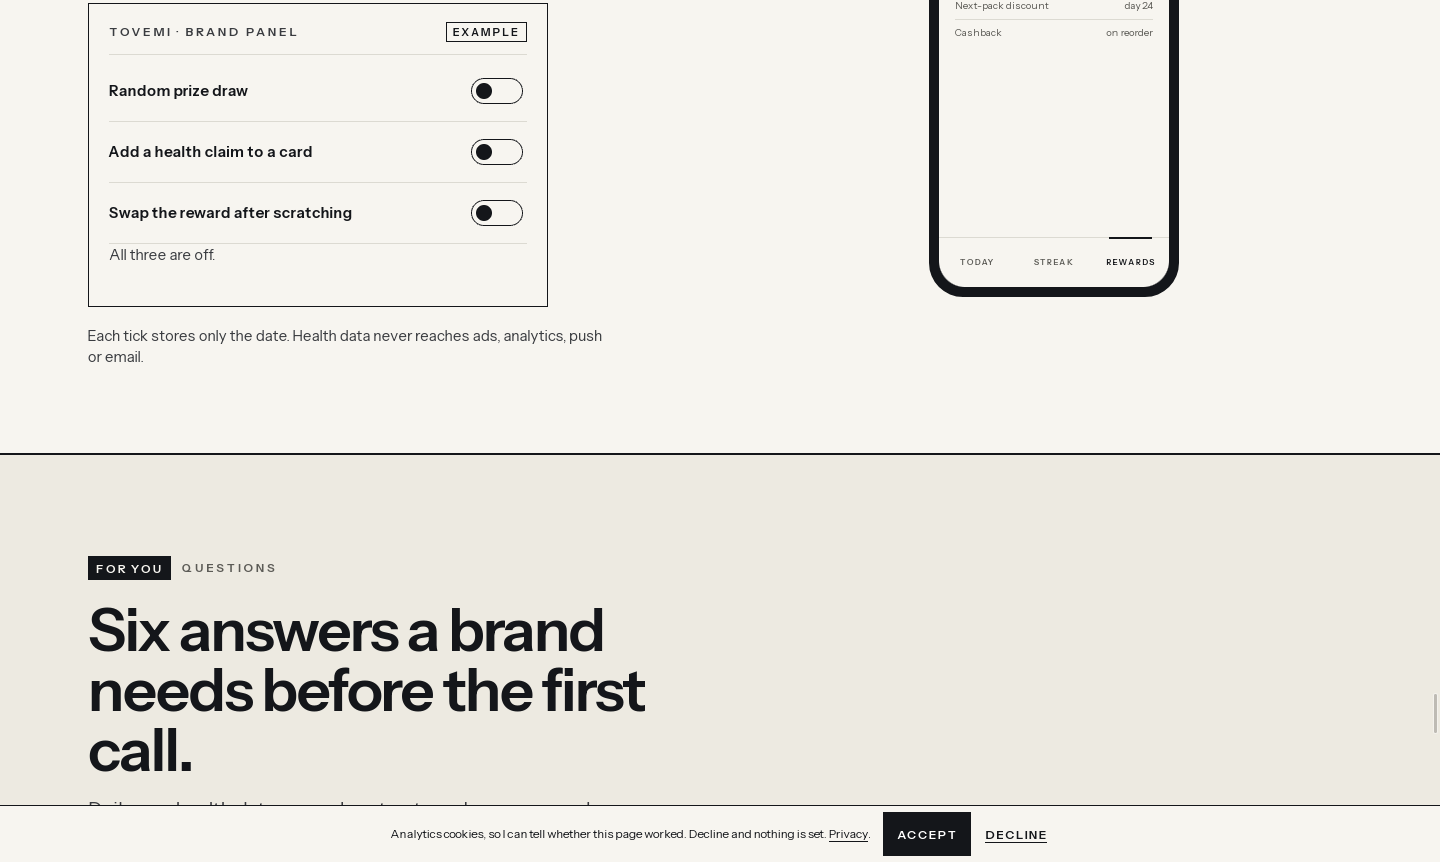
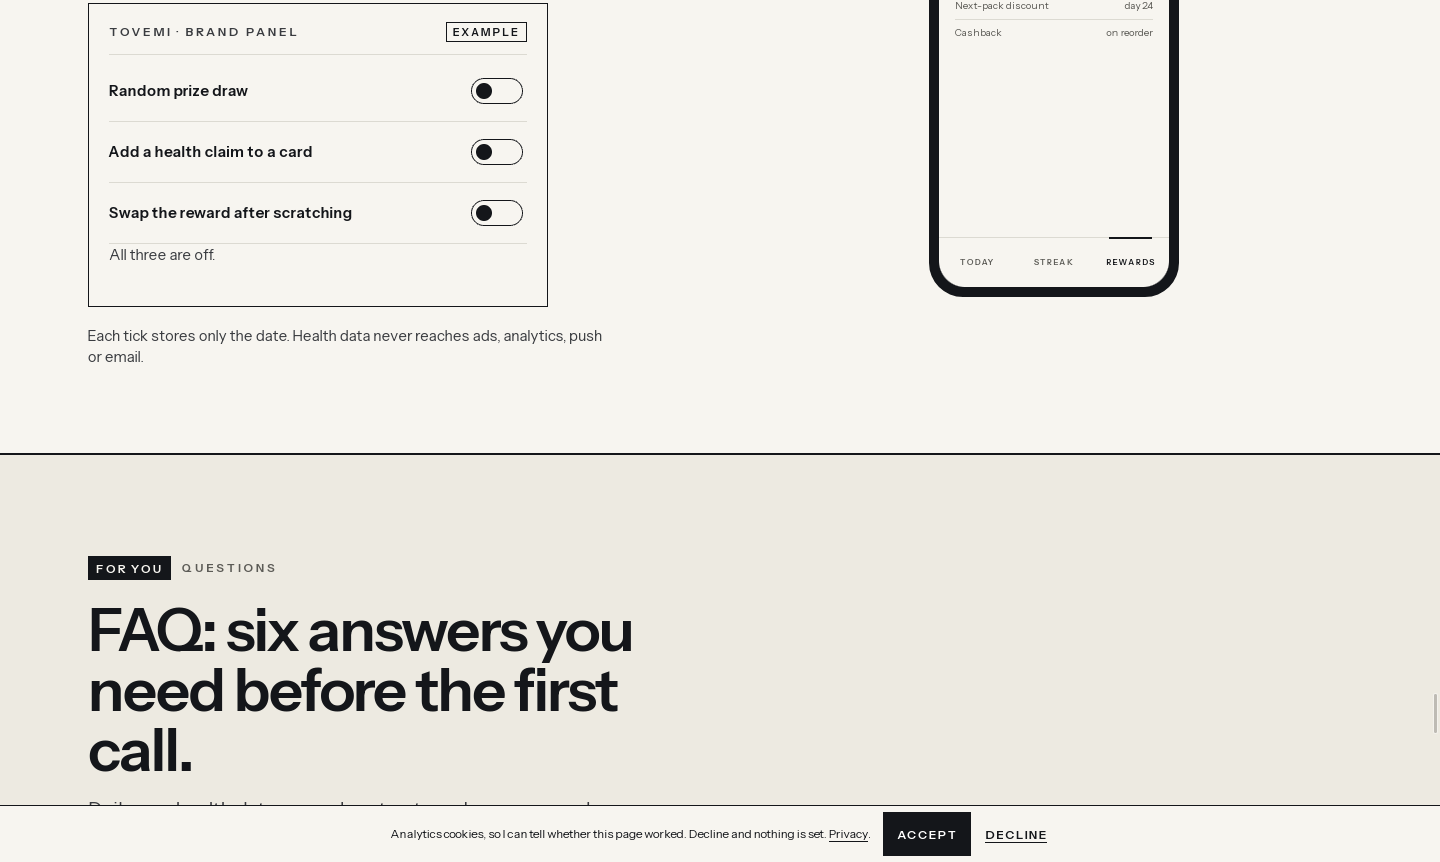
agencja: R4 przebieg 11 — /work/genactiv CLS przewijania 0 i pasek nigdy na 1. ekranie (recenzja 27 W1), /nawyko naglowek FAQ (zasada 8), spec 22, recenzja 27, STATUS, lekcja R18

Changed region(s): [[0.0625, 0.6937, 0.4688, 0.8445]]

diff --git a/app/work/genactiv/ActBar.tsx b/app/work/genactiv/ActBar.tsx
@@ -70,7 +70,9 @@ function ActBarImpl({ act, onJump }: Props) {
         inScene = !!t && t.top <= 1 && t.bottom >= vh - 1
       }
       const s0 = document.querySelector('.ga-act-0')
-      const past = actRef.current === null ? !!s0 && s0.getBoundingClientRect().bottom < 0 : a >= 1
+      // R4 p11 recenzja 27 W1: przewiniecie wywolane fokusem (Tab na „Skip to content”) potrafi policzyc tick ze starym aktem —
+      // na pierwszym ekranie pasek nigdy nie jest widoczny, niezaleznie od stanu sceny.
+      const past = y > vh * 0.5 && (actRef.current === null ? !!s0 && s0.getBoundingClientRect().bottom < 0 : a >= 1)
       const fr = form?.getBoundingClientRect()
       const atForm = !!fr && fr.top < vh * 0.6 && fr.bottom > 0
       const d = y - lastY

diff --git a/app/nawyko/NawykoClient.tsx b/app/nawyko/NawykoClient.tsx
@@ -1604,7 +1604,7 @@ function Faq() {
         <span className="nk-labrest">Questions</span>
       </div>
       <h2 className="nk-h2" id="nk-faq-h">
-        Six answers a brand needs before the first call.
+        FAQ: six answers you need before the first call.
       </h2>
       <p className="nk-one">Daily use, health data, reward cost, setup, pharmacy purchases, consent.</p>
       <div className="nk-qs">

diff --git a/agencja/recenzje/27-r4-p11-review.md b/agencja/recenzje/27-r4-p11-review.md
@@ -1,0 +1,50 @@
+# Recenzja 27 — R4 przebieg 11 (niezależny recenzent, 24.11.2026)
+
+Zakres: `git diff 3a7983f HEAD -- app/` (3 pliki), spec 22-r4p11. Serwer `localhost:3100`, Chromium z Playwright,
+`navigator.webdriver=false` (addInitScript), 390×844 i 1440×900, także `prefers-reduced-motion: reduce`.
+Skrypty pomiarowe w katalogu roboczym recenzenta (nie w repo); zrzuty `agencja/podglad/r4p11-rev-*.png`.
+
+**Werdykt: do scalenia, z jednym punktem WAŻNYM do potwierdzenia (wyścig paska na `/work/genactiv`).** Nic blokującego.
+
+## BLOKUJĄCE
+Brak.
+
+## WAŻNE
+**W1. Pasek aktów bywa dostępny z klawiatury na samej górze strony (akt 0) — wyścig, nie zawsze.**
+Scenariusz (390, tryb przewijania): przewinąć głęboko w scenę, potem `body.focus()` i Tab ×8 (fokus na „Skip to content”
+przewija stronę z y≈8230 na 0). W 2 z 5 prób kolejne Taby po „Contact” weszły w pasek: `BAR:GENACTIV The problem`,
+`BAR:Ask about a brand`, dopiero potem treść aktu; w pierwszej próbie pasek został też widoczny i bez `inert` na y=0
+(`{"on":true,"inert":false,"cur":"The problem","y":0}`). W pozostałych próbach (także z odstępem 60–250 ms między Tabami
+oraz po `scrollTo(0,0)` i klawiszu Home) pasek był poprawnie ukryty i `inert`. Wniosek: nowy `useEffect([act])` naprawia
+skok przez `scrollTo`/Home, ale przy skoku wywołanym fokusem zostaje okno, w którym `want=true` (duże przewinięcie w górę)
+i stary akt dają `on=true`; `onFocus` ignoruje cele w samym pasku, więc fokus w pasku go nie chowa.
+Dowód: logi w tej recenzji (powyżej), zrzuty `r4p11-rev-ga-390-race-*.png`, `r4p11-rev-ga-390-tab5.png`.
+Do potwierdzenia przez Leada jednym przebiegiem ×10; poprawka lokalna w `ActBar` (np. `past` liczony z `scrollY`
+względem `.ga-track`, a nie z aktu, albo tick w `focusin` także dla celu w pasku).
+
+## DROBNE
+**D1. Na 390 w trybie przewijania pasek praktycznie się nie pokazuje** (w scenie blokuje go reguła spec 21 B5, za sceną
+od razu `atForm`). Zmiana kolejności DOM jest więc na telefonie bez skutku, a skoków 8/8 nie dało się wywołać z paska
+na 390 (0/8 — „bar off” za sceną). To stan sprzed zmiany, nie regresja; w `reduced-motion` na 390 pasek się pokazuje
+(`r4p11-rev-ga-390-rm-bar.png`). Warto świadomie zdecydować, czy na telefonie pasek ma w ogóle istnieć.
+**D2. CLS przy przewijaniu kółkiem 1440 na `/nawyko` = 0,0037**, źródło `.nk-step is-on` (nie gałka, nie ten diff).
+Na 390 = 0,0003 (było 0,0100 wg recenzji 26 — gałka naprawiona). Poniżej progu 0,05, ale nie „< 0,001”.
+**D3. Nagłówek FAQ** „FAQ: six answers you need before the first call.” — czytelny w 5 s (2 linie na 390 i 1440,
+6 pytań pod spodem zgadza się z „six”). Drobiazg: kicker obok mówi „Questions”, więc „FAQ:” powtarza go; pierwsze dwa
+słowa niosą mniej treści niż „Six answers…”. Do bramki tekstów, nie blokuje. `r4p11-rev-faq-390.png`, `-1440.png`.
+
+## Co sprawdzone i przeszło
+- **Gałka dnia `/nawyko`** (transform + `cqw`): w 9 (390) i 11 (1440) pozycjach przewijania środek gałki = lewa krawędź
+  toru + dzień/30 × szerokość, różnica **0,0 px**; dzień w `aria-valuetext` zgodny z liczbą na telefonie
+  (`r4p11-rev-knob-390-m-1.png`: „11 day of 30” i gałka za 11. kratką). Klawiatura (Home, →, →, PageUp, End, ←):
+  1→2→3→6→30→29, różnica 0 px; przeciąganie na 20/50/81 % toru: dni 6–7/16/25, różnica 0 px; to samo w
+  `reduced-motion` (`r4p11-rev-knob-*-rm-kbd.png`, `-drag.png`). `container-type:inline-size` nie zmienił szerokości toru
+  (342,4 px na 390, 560 px na 1440). CLS przewijania 390: 0,0003; reduced-motion: 0.
+- **`/work/genactiv` kolejność DOM**: przy widocznym pasku (1440) pierwszy element paska ma indeks 6, pierwszy element
+  aktów 8 — pasek przed treścią. Ukryty pasek ma `inert` (start, po `scrollTo(0,0)`, po Home — 1440 i 390).
+- **Skoki do rozdziałów 1440: 8/8** w trybie przewijania i 8/8 w `reduced-motion` (fokus na sekcji aktu).
+- **`key` na tekstach**: monitor co klatkę (≈960–1570 klatek na przebieg): nigdy więcej niż jeden `figcaption` ani
+  więcej niż jedna liczba w pierścieniu na ekran — brak podwójnego tekstu; zrzuty klatek bez migania
+  (`r4p11-rev-ga-{390,1440}-scroll-0..4.png`). CLS przewijania 0,0000 (390 i 1440).
+- **Treść**: zero prawdziwych marek w tekście `/nawyko` (marka demo „Tovemi”); w diffie nie doszła żadna liczba.
+  Kiczu brak — zmiany są niewidoczne poza nagłówkiem FAQ.

diff --git a/agencja/specs/22-r4p11-plynnosc-cls-tab-naglowki.md b/agencja/specs/22-r4p11-plynnosc-cls-tab-naglowki.md
@@ -1,0 +1,27 @@
+# Spec 22 — R4 przebieg 11 (24.11.2026 08:38): płynność `/nawyko`, źródła CLS, kolejność Tab `/work/genactiv`, nagłówki pod zasadę 8
+
+Źródło kolejki: `agencja/STATUS.md` → „Następne” R4-N10 i recenzja 26 (M2, M3). Decyzja R4p10-A (CTA przypięte na telefonie)
+nadal czeka na Rafała — NIE budujemy go w tym przebiegu (nowy element na ekranie = zmiana zakresu).
+
+## Strumień A — `/nawyko` (worktree `wt/r4p11-a`)
+A1. **Płynność 1440 wróciła do 2–4 klatek > 50 ms** (p8: 0). Hipoteza: `MutationObserver` z D2 (`ChapterBar` czyta akt sceny).
+    Kryteria: pomiar `scripts/scroll-perf.mjs <url> 1440 900 4` ×3 przed i po; po zmianie najdłuższa klatka < 100 ms we wszystkich
+    i liczba klatek > 50 ms nie większa niż przed (mediana); zachowanie D2 bez zmian (etykieta „How it works · 04 Reward” tylko
+    w przypiętej scenie). Jeśli przyczyna nie jest w D2 — zapisać, co zmierzone, i nie zmieniać kodu na ślepo.
+A2. **CLS przy przewijaniu kółkiem 390 = 0,0100** (recenzja 26 M3). Przypisać źródła (element, wartość) — skrypt z `PerformanceObserver`
+    `layout-shift` + `sources`. Jeśli źródło w kodzie trasy i poprawka jest lokalna — poprawić do < 0,001; jeśli nie — zapisać źródło.
+A3. **Nagłówki scen pod zasadę 8 rubryki** (pierwsze dwa słowa niosą treść): tabela obecnych nagłówków H2/H3 `/nawyko` → propozycja
+    tylko tam, gdzie pierwsze dwa słowa nie niosą treści. W tym przebiegu BEZ zmiany kodu — tabela trafia do czytelnika-kupującego.
+
+## Strumień B — `/work/genactiv` (worktree `wt/r4p11-b`)
+B1. **Pasek aktów jest ostatni w DOM** (M2): renderować pasek przed `.ga-track`/`.ga-still`, tak by Tab z treści pierwszego ekranu
+    doszedł do paska przed treścią aktów (gdy pasek widoczny). Kryteria: kolejność Tab sprawdzona skryptem; `inert` przy ukryciu
+    bez zmian; CLS bez zmian; skoki 8/8 nadal trafiają w akt.
+B2. **CLS 0,0008 (1440) / 0,0030 (390) przy przewijaniu kółkiem** (M3): przypisać źródła; lokalna poprawka, jeśli źródło w kodzie trasy.
+B3. **`gates.sh` na `/`** (pierwszy raz): wynik tabeli; FAIL na `/` przy niezmienionym `/` = zapis do STATUS, bez zmian w `/`
+    (strona główna to mechanizm ship-design).
+
+## Bramki obu strumieni
+`npm run build`, `npx tsc --noEmit`, `npm run lint` (0 błędów, ostrzeżeń ≤ 1), `bash scripts/gates.sh http://localhost:<port> <trasa>`
+(zawiera WebKit 390/1440), zrzuty przed/po w `agencja/podglad/r4p11-{a,b}-*.png`. Niezależny recenzent po scaleniu.
+Pomiary wydajności przy dwóch budujących na 2 rdzeniach są zaszumione — ×3, mediana; ostateczny pomiar Lead po scaleniu, sam.

diff --git a/agencja/postep-uczenia.md b/agencja/postep-uczenia.md
@@ -31,3 +31,5 @@ Jedna linia na przebieg: data · czego się nauczyliśmy (źródło) · co konkr
 - 24.11 06:55 · Retro: (1) nie przewidziałem, że na 390 przypięta scena zaczyna się 18 px od góry — pasek zasłaniał nazwę marki (złapał recenzent; R16 → sprawdzenie elementów fixed na tle scen); (2) lista rozwijana za CTA w DOM = zła kolejność Tab; (3) lekcja „bramka pominięta / mierzy złe miejsce” powtórzyła się 3× (R13–R15) → reguła: `scripts/gates.sh`, w CLAUDE.md.
 - 24.11 08:15 (runda 4, przebieg 10) · Baymard „Mark both required and optional fields” (https://baymard.com/blog/required-optional-form-fields): oznaczać oba rodzaje pól → reguła 13 w `rubryka-tekstow.md`; `Enquiry` już zgodny (2 pola, zgody z „(required)/(optional)”).
 - 24.11 08:15 · Retro: (1) pierwsze puszczenie bramek po moich poprawkach dało 9× FAIL — mierzyły STARY serwer (`pkill -f "next start"` nie zabija procesu `next-server`, nowy nie wstał: port zajęty), który podawał HTML ze starym BUILD_ID i 500 na chunki; R17 → `gates.sh` odmawia, gdy serwer nie podaje buildu z `.next` (sprawdzone na fałszywym BUILD_ID: kod 2). (2) Czytelnik-kupujący złapał „Ask about an app” (brzmi jak aplikacja do pobrania) i puste „Consent” — budujący dał etykiety z kickerów aktów, które w kontekście sceny działają, a w samym pasku nie. (3) Recenzent złapał etykietę aktu, która zostawała po wyjściu ze sceny (390: pasek 81 px, CTA w drugim rzędzie).
+- 24.11 09:20 (runda 4, przebieg 11) · web.dev „Cumulative Layout Shift (CLS)” (https://web.dev/articles/cls): zmiany `transform` nie liczą się jako przesunięcia układu · Zmiana: gałka osi 30 dni `/nawyko` na `transform` (CLS kółkiem 390 0,0005 → 0,0001); teksty zmieniające się w miejscu na `/work/genactiv` dostają nowy węzeł (`key`) → 0.
+- 24.11 09:20 · Retro: (1) hipoteza z p10 (obserwator D2 spowalnia scenę) zapisana jak fakt — pomiar ją obalił (R18: przyczyna bez pomiaru = „hipoteza”); (2) mikro-CLS przy przewijaniu niewidoczny dla bramek (mierzyły wejście) → `scripts/cls-scroll.mjs`; (3) recenzent złapał pasek osiągalny Tabem na górze strony po przewinięciu fokusem — test 10× w obu szerokościach po poprawce.

diff --git a/agencja/wiedza/kolejka.md b/agencja/wiedza/kolejka.md
@@ -13,5 +13,7 @@ Każda porcja: źródło (link + data) → jedna konkretna zmiana na stronie alb
 6. Wydajność — ~~CLS: próg 0,1, okna sesji, wejście z kotwicą (web.dev, 24.11 R4 p3)~~; ~~INP dla scen sterowanych przewijaniem~~ (24.11 R4 p8: web.dev „Benchmarking the performance of CSS @property” → zmienne sceny na elementach + `inherits:false`, bramka `scroll-perf`)
 7. ~~Strony produktowe — rozdziały i CTA w trakcie długiej strony~~ (24.11 R4 p9: Smashing „Designing Sticky Menus” → pasek rozdziałów `/nawyko` częściowo przyklejony z CTA); zostaje: to samo dla `/work/genactiv`
 9. ~~B2B CRO — ile pól i jaka kolejność w formularzu zapytania~~ (24.11 R4 p10: Baymard „Mark both required and optional fields” → `Enquiry` zgodny: 2 pola, obie zgody oznaczone; reguła 13 w rubryce tekstów dla każdego nowego formularza). Zostaje: kolejność pól (sklep przed e-mailem?) — test dopiero z danymi
+11. ~~Wydajność — CLS przy przewijaniu (web.dev „CLS”: `transform` nie przesuwa układu)~~ (24.11 R4 p11: gałka na `transform`, `key` na tekstach; zostaje: `cls-scroll` w `gates.sh`)
+12. Copywriting — nagłówki „Etykieta: zdanie” (czytelnik R4 p11: działa tylko ze słowem kupującego) — szukać źródła (NN/g o front-loading w nagłówkach z dwukropkiem)
 10. Dostępność — skok do celu w obrębie strony: fokus na celu kotwicy i ogłoszenie czytnikiem (WCAG 2.4.3), dla pasków `/nawyko` i `/work/genactiv`
 8. ~~Scroll-driven animations w CSS — wsparcie przeglądarek~~ (24.11 R4 p4: Safari 26.0 obsługuje `animation-timeline`, webkit.org/blog/17333; iOS 18 nie → zawsze `@supports` + statyczny stan końcowy; `webkit-check.py` wypisuje wsparcie). Zostaje: czy przenieść część sceny z JS do CSS

diff --git a/agencja/teksty-do-akceptacji.md b/agencja/teksty-do-akceptacji.md
@@ -299,3 +299,4 @@ Pasek pojawia się przy przewijaniu w górę za pierwszym ekranem. Etykiety rozd
 | pasek, etykieta przed bieżącym rozdziałem | GENACTIV | bez zmian (nazwa marki z trasy) |
 | pasek, rozdziały (lista i bieżący) | The problem · How it works · Cashback · Points and levels · Data and consent · How it was built · Results · Your brand colour | „How it works” nowy (grupa aktów Step 1–3); reszta z istniejących kickerów |
 | pasek, `aria-label` nawigacji | Chapters | bez zmian (to samo co pasek `/nawyko`) |
+| /nawyko | R4 p11 FAQ H2 (zasada 8) | FAQ: six answers you need before the first call. | zmieniony (było „Six answers a brand needs before the first call.”; czytelnik-kupujący: INNA → to brzmienie; copy-voice OK) |
